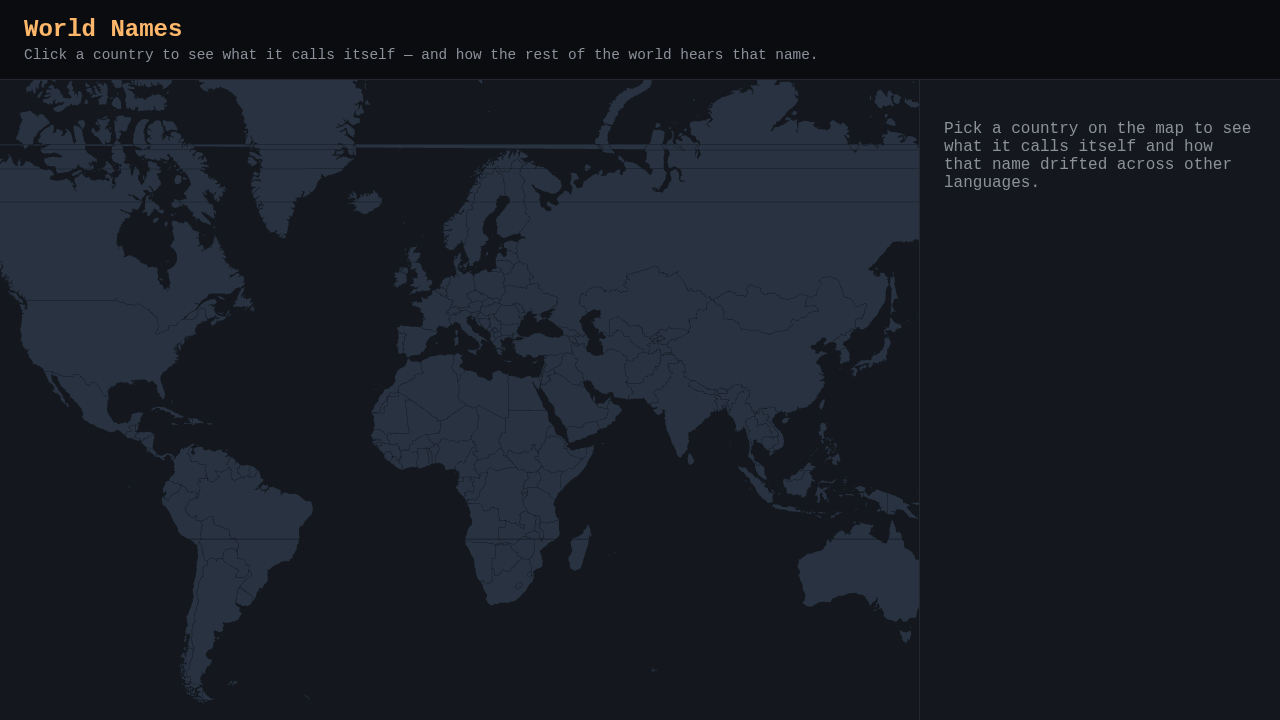
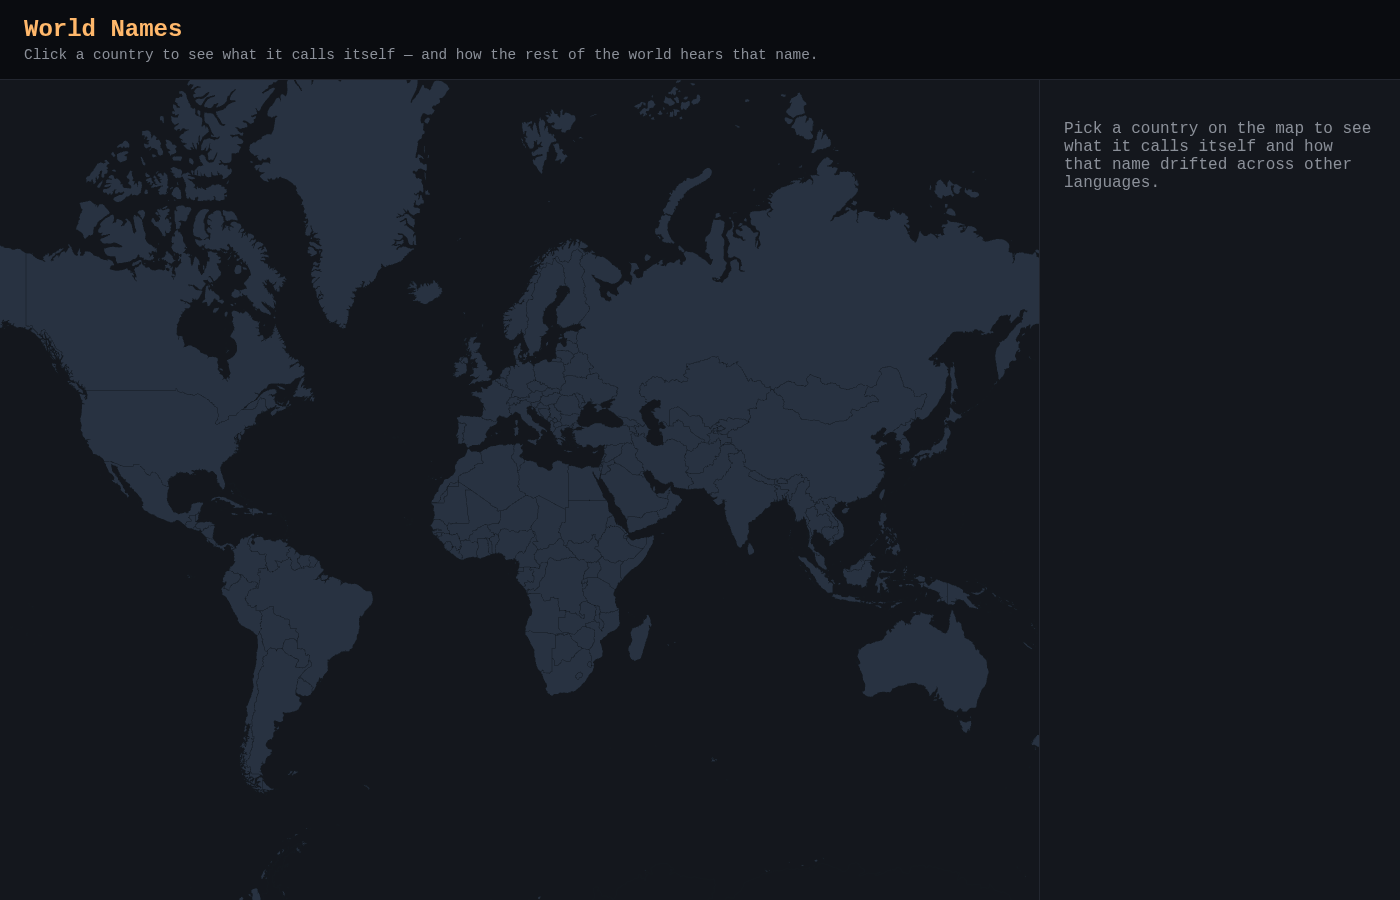
Fix antimeridian wrap: Russia rendering as a stripe across the map
Natural Earth's Russia MultiPolygon has 6 consecutive-vertex pairs
that jump >180° in longitude (the Chukotka peninsula crosses the
antimeridian into negative longitudes around the Diomede islands).
deck.gl's GeoJsonLayer rendered those jumps as polygon edges
stretching across the entire map, and the stripes picked up as
"Russia" on hover because they are Russia, badly drawn.

GeoJsonLayer internally hardcodes `_normalize=false` on its polygon
sub-layers, which short-circuits the tesselator's
`cutPolygonByMercatorBounds` path. Override via `_subLayerProps`
so polygons-fill and polygons-stroke get `_normalize: true` plus
`wrapLongitude: true`, and the tesselator splits crossing polygons
at ±180° cleanly.

Verified via Playwright screenshot at 1400×900 — Chukotka now renders
correctly bounded with no horizontal stripes. Reported as a bug on
Firefox/Android mobile but the antimeridian issue is render-engine
agnostic; fix applies to all clients.

Changed region(s): [[0.0, 0.0, 0.9688, 0.9778], [0.6875, 0.1222, 0.7188, 0.1528], [0.2188, 0.7639, 0.25, 0.7944]]

diff --git a/src/components/WorldMap.tsx b/src/components/WorldMap.tsx
@@ -75,6 +75,18 @@ export function WorldMap() {
         stroked: true,
         pickable: true,
         autoHighlight: false,
+        // Natural Earth's Russia polygon crosses the antimeridian (Chukotka). The
+        // raw GeoJSON has consecutive vertex pairs that jump >180° in longitude,
+        // which deck.gl renders as horizontal stripes across the map (and the
+        // stripes pick up as Russia on hover, since they ARE Russia, badly drawn).
+        //
+        // GeoJsonLayer internally hardcodes _normalize=false on its polygon
+        // sub-layers. Override via _subLayerProps so the tesselator runs
+        // cutPolygonByMercatorBounds and splits the polygon at ±180°.
+        _subLayerProps: {
+          'polygons-fill': { _normalize: true, wrapLongitude: true },
+          'polygons-stroke': { _normalize: true, wrapLongitude: true },
+        },
         getFillColor: (f) => {
           const id = featureId(f);
           if (id === selectedId) return RGBA.selected;